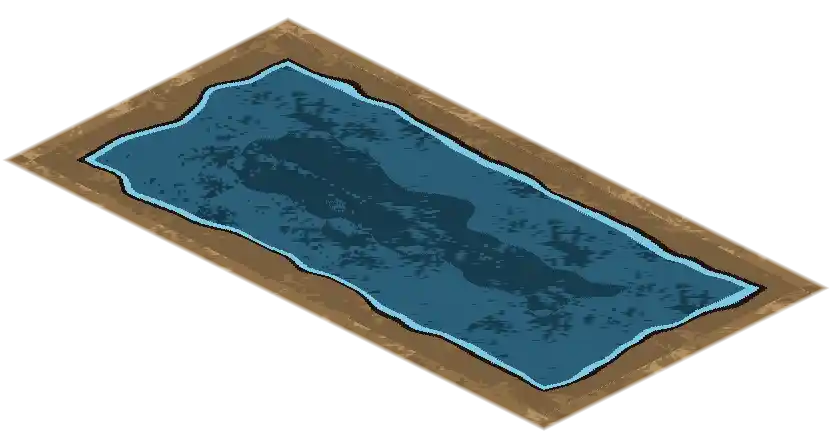
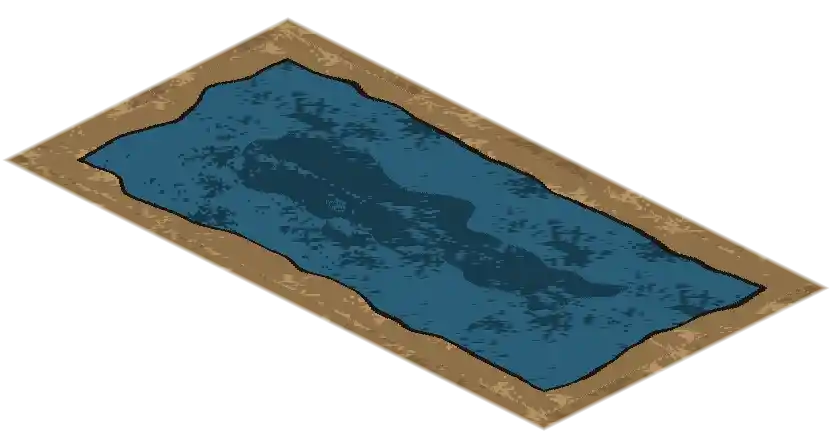
Drop the pond waterline halo and lift the wet bank to the margin's base and rim
The DL-2 W5 gate ranked two pond nits later: the #7ec8e3 band on the wet line read as a UI selection ring, and the bank under the water film, painted in the damp margin's shadow, read as a grey-olive band of mud. The shared shoreline packer now inks the wet line straight onto the bed and paints the wet bank in the margin's base with rim lifts. Both the forest pond and the Cutting's pool are repacked; CUTTING_POOL_BYTES is re-pinned.

diff --git a/scripts/art/forest-shoreline.ts b/scripts/art/forest-shoreline.ts
@@ -20,12 +20,21 @@
  * pond's margin was the odd material on a board whose road and verges had
  * already been re-keyed to the village's hand. Both now come from
  * `forest-village-material.ts`, in the DL-2 §3 water-margin key: the bank is
- * the **damp margin** `#8e7049` over the road's own packed-earth shadow, gone
- * a step darker where the water film covers it; the bed is `#2a5e77` falling
- * to a deeper second flat tone; and the wet line carries the bible's `#1b1410`
- * ink with the §3 `#7ec8e3` edge on its wet side. Two flat tones per material,
- * no gradient; the bed's depth is spent on *which* of its two tones a pixel
- * takes, never on blending them, exactly as the route plate spends its feather.
+ * the **damp margin** `#8e7049` over the road's own packed-earth shadow, and
+ * under the water film it keeps the margin's base and rim (`WET_BANK`); the
+ * bed is `#2a5e77` falling to a deeper second flat tone; and the wet line is
+ * the bible's `#1b1410` ink alone. Two flat tones per material, no gradient;
+ * the bed's depth is spent on *which* of its two tones a pixel takes, never on
+ * blending them, exactly as the route plate spends its feather.
+ *
+ * **What the DL-2 W5 gate changed.** The wet line used to carry a band of the
+ * §3 `#7ec8e3` edge on its water side. Under the film it read as a UI
+ * selection ring traced round the pond, so the ink now meets the bed
+ * directly. And the bank under the film was the margin's shadow, which the
+ * film turned into a grey-olive band like a strip of mud round the water; it
+ * now takes the margin's base and rim, so the bank reads as the same earth
+ * seen through shallow water. Both changes reach the Cutting's pool too,
+ * since it is packed here.
  */
 import { mkdirSync, writeFileSync } from 'node:fs';
 import { FOREST_POND_PATCH, FOREST_WATER_CELLS } from '../../src/content/scenes/forestRoad';
@@ -51,14 +60,13 @@ export const BITE_FLOOR = 0.3;
 export const BED_DEEP_AT = 0.75;
 export const BED_DEEP_BAND = 0.6;
 /**
- * The bible's uniform ink and the thin rim beside it, in logical cells. One
- * step of a tile across either kind of cell edge is `hypot(64, 32)` screen
- * pixels, so 2 px of ink is this much of a tile — the same arithmetic
- * `forest-route-ground.ts` uses, so the pond's line matches the road's.
+ * The bible's uniform ink, in logical cells. One step of a tile across either
+ * kind of cell edge is `hypot(64, 32)` screen pixels, so 2 px of ink is this
+ * much of a tile — the same arithmetic `forest-route-ground.ts` uses, so the
+ * pond's line matches the road's.
  */
 const TILE_DIAGONAL = Math.hypot(64, 32);
 export const INK_HALF = 1 / TILE_DIAGONAL;
-export const RIM_WIDTH = 3 / TILE_DIAGONAL;
 /** World pixels per cell, and packed pixels per cell at this density. */
 const CELL = 64;
 const DENSITY = 2;
@@ -204,16 +212,22 @@ export function pondInset(width: number, height: number, pond: Pond = FOREST_PON
 const BED = {
   shelf: parseHex(FOREST_PIECE_TONES.bed.base),
   deep: parseHex(FOREST_PIECE_TONES.bed.shadow),
-  edge: parseHex(FOREST_PIECE_TONES.bed.rim),
 };
-const WET_BANK = {
-  field: parseHex(FOREST_PIECE_TONES.margin.shadow),
-  lifted: parseHex(FOREST_PIECE_TONES.margin.base),
-};
+/**
+ * The bank under the water film: the damp margin's base as the field and its
+ * rim where the lawn's rhythm lifts a patch. The film already cools and darkens
+ * whatever it covers, so the bank needs no darker tone of its own to read as
+ * wet; the margin's shadow under it read as a grey-olive band of mud.
+ */
+export const WET_BANK = {
+  field: FOREST_PIECE_TONES.margin.base,
+  lifted: FOREST_PIECE_TONES.margin.rim,
+} as const;
+const WET_BANK_RGB = { field: parseHex(WET_BANK.field), lifted: parseHex(WET_BANK.lifted) };
 
-/** What a wet pixel shows through the film: the ink, the waterline, the bank or the bed. */
+/** What a wet pixel shows through the film: the ink, the bank or the bed. */
 interface WetPaint {
-  readonly part: 'ink' | 'edge' | 'bank' | 'bed';
+  readonly part: 'ink' | 'bank' | 'bed';
   readonly rgb: Rgb;
   /** The bed's deep tone rather than its shelf tone. */
   readonly deep: boolean;
@@ -236,26 +250,15 @@ function wetPixel(
   // always tints authored bottom rather than whatever ground the pond
   // happens to sit on (ADR 0045). The wet line itself is the boundary
   // between the bite and the bed, which is where the ink belongs: the
-  // tile edge is not a material edge, and never was.
+  // tile edge is not a material edge, and never was. The ink meets the bed
+  // directly: a pale band on its water side read as a selection ring.
   const fromLine = inside - depth;
-  const part =
-    Math.abs(fromLine) < INK_HALF
-      ? 'ink'
-      : fromLine > 0 && fromLine < INK_HALF + RIM_WIDTH
-        ? 'edge'
-        : inside < depth
-          ? 'bank'
-          : 'bed';
+  const part = Math.abs(fromLine) < INK_HALF ? 'ink' : inside < depth ? 'bank' : 'bed';
   if (part === 'ink') return { part, rgb: material.ink, deep: false };
-  if (part === 'edge') return { part, rgb: BED.edge, deep: false };
   if (part === 'bank')
-    // The bank under the film is wet, so it is the damp margin a step
-    // darker: its shadow as the field, its base where the lawn's rhythm
-    // lifts a patch. The pale rim stays on dry ground; under the film it
-    // read as the lit top of a curb rather than as a bank going under.
     return {
       part,
-      rgb: material.classOf('margin', x, y) === 'rim' ? WET_BANK.lifted : WET_BANK.field,
+      rgb: material.classOf('margin', x, y) === 'rim' ? WET_BANK_RGB.lifted : WET_BANK_RGB.field,
       deep: false,
     };
   const deep = bedIsDeep(material, x, y, inside);

diff --git a/scripts/art/forest-shoreline.test.ts b/scripts/art/forest-shoreline.test.ts
@@ -14,12 +14,14 @@ import {
   BED_DEEP_AT,
   BED_DEEP_BAND,
   BITE_FEATHER,
+  INK_HALF,
   SHORE_BITE,
   SHORE_LIMIT,
   biteDepth,
   packShoreline,
   pondInset,
   SHORE_OUTPUT,
+  WET_BANK,
   shorePosition,
   shoreDistance,
 } from './forest-shoreline';
@@ -37,7 +39,7 @@ it('ships the pond plate the packer builds', async () => {
   );
 });
 
-it('paints only the damp margin, the bed, their rims and the ink', () => {
+it('paints only the damp margin, the bed and the ink', () => {
   const allowed = new Set<string>([FOREST_INK]);
   for (const key of ['margin', 'bed'] as const)
     for (const hex of Object.values(FOREST_PIECE_TONES[key])) allowed.add(hex);
@@ -53,9 +55,11 @@ it('paints only the damp margin, the bed, their rims and the ink', () => {
     FOREST_PIECE_TONES.margin.base,
     FOREST_PIECE_TONES.bed.base,
     FOREST_PIECE_TONES.bed.shadow,
-    FOREST_PIECE_TONES.bed.rim,
   ])
     expect(seen, `${hex} is painted`).toContain(hex);
+  // The DL-2 W5 gate: a `#7ec8e3` band on the wet line's water side read as a
+  // UI selection ring round the pond, so the ink meets the bed directly.
+  expect(seen, 'no waterline halo').not.toContain(FOREST_PIECE_TONES.bed.rim);
 });
 
 it('keeps the bank, its wandering bite and the opaque bed of ADR 0045', () => {
@@ -150,20 +154,29 @@ it('keeps the bank, its wandering bite and the opaque bed of ADR 0045', () => {
   const mean = (b: { n: number; sum: number }): number => b.sum / b.n;
   expect(mean(band.shelf)).toBeLessThan(mean(band.bank) * 0.85);
   expect(mean(band.deep)).toBeLessThan(mean(band.shelf) * 0.8);
-  // The wet line: ink, with the §3 edge on its wet side and the wet bank on
-  // its dry one, so the bite's inner sliver darkens into the line.
+  // The wet line: ink, with the bed on its wet side and the wet bank on its
+  // dry one, so the bite's inner sliver darkens into the line.
   expect(mean(band.featherOuter)).toBeGreaterThan(mean(band.featherInner));
   expect(BED_DEEP_AT).toBeGreaterThan(BED_DEEP_BAND / 2);
-  // Under the water film the bank is the damp margin gone a step darker: its
-  // pale rim, which read as the lit top of a curb there, is never painted.
-  let paleUnderFilm = 0;
+  // Under the water film the bank keeps the damp margin's base and rim. Its
+  // shadow there, darkened again by the film, read as a grey-olive band of mud
+  // round the water (the DL-2 W5 gate), so no wet pixel takes it; and the
+  // bank's lifted rim patches really are painted, so the choice is exercised.
+  const wetBank = new Map<string, number>();
+  let shadowUnderFilm = 0;
   for (let py = 0; py < image.height; py++)
     for (let px = 0; px < image.width; px++) {
-      if ((inset[py * image.width + px] ?? 0) <= 0) continue;
+      const inside = inset[py * image.width + px] ?? 0;
+      if (inside <= 0) continue;
       const hex = toHex(pixelAt(image, px, py).slice(0, 3));
-      if (hex === FOREST_PIECE_TONES.margin.rim) paleUnderFilm++;
+      if (hex === FOREST_PIECE_TONES.margin.shadow) shadowUnderFilm++;
+      const { x, y } = shorePosition(px, py);
+      // Clear of the ink on both sides, so only the bank's own paint counts.
+      if (inside < biteDepth(x, y) - 2 * INK_HALF) wetBank.set(hex, (wetBank.get(hex) ?? 0) + 1);
     }
-  expect(paleUnderFilm).toBe(0);
+  expect(shadowUnderFilm).toBe(0);
+  expect([...wetBank.keys()].sort()).toEqual([WET_BANK.field, WET_BANK.lifted].sort());
+  expect(wetBank.get(WET_BANK.field) ?? 0).toBeGreaterThan(wetBank.get(WET_BANK.lifted) ?? 0);
   // Every real water centre carries bed, and muted bed at that: the middle of
   // a tile is never dry bank, and never the brightest thing in the pond.
   for (const { x, y } of FOREST_WATER_CELLS) {

diff --git a/src/content/scenes/quarryRouteGround.ts b/src/content/scenes/quarryRouteGround.ts
@@ -61,4 +61,4 @@ export const CUTTING_GROUND_REGIONS = [
   },
 ] as const;
 
-export const CUTTING_POOL_BYTES = 13184;
+export const CUTTING_POOL_BYTES = 10490;

diff --git a/docs/art/forest-pond-shoreline.md b/docs/art/forest-pond-shoreline.md
@@ -105,3 +105,25 @@ of the 300 KB budget, `npm run check:assets` is OK, and the route harness passes
 2/2 in 32 s with captures under `.shots/water/bed3/`; `before-after-webgl.png`
 there stacks the shipped v0.2.5 pond against this bed. Still open: reeds and bank
 planting, the village canal's bed and bank, and the quarry floor's flat stain.
+
+## Waterline and wet bank, after the DL-2 W5 gate (23 September 2026)
+
+The W5 reviewer ranked two pond nits "later", and both are fixed in the packer
+(`scripts/art/forest-shoreline.ts`), so they reach the forest pond and the
+Cutting's pool (`cutting-scene/pool-bank.webp`), which the same packer builds:
+
+- **Waterline halo.** The wet line carried a 3 px band of the §3 edge
+  `#7ec8e3` on its water side. Under the film it read as a UI selection ring
+  traced round the pond. The band is gone: the `#1b1410` ink meets the bed
+  directly, and the test holds that no pixel of the plate is `#7ec8e3`.
+- **Wet bank.** Under the film the bank was the damp margin's shadow `#7a5f3e`
+  with base `#8e7049` lifts, which the film turned into a grey-olive band like
+  a strip of mud. It now takes the margin's base `#8e7049` with rim `#b39064`
+  lifts (`WET_BANK`), so it reads as the same earth seen through shallow water.
+  The test holds that no wet pixel is the margin's shadow.
+
+Geometry, the bed, the dry margin and every alpha value are unchanged, so the
+water cells and their bed still read as water under the film, and the forest
+apron (which reads this plate only as an overpaint guard) is byte-identical.
+`pond-bank.webp` went from 21,434 to 18,050 B and `pool-bank.webp` from 13,184
+to 10,490 B. Both packers were run twice and produced byte-identical files.

diff --git a/docs/art/cutting-driller-ground-registration.md b/docs/art/cutting-driller-ground-registration.md
@@ -218,8 +218,8 @@ it as a flat teal rectangle — a third water style on the route. It now has its
 own plate, `cutting-scene/pool-bank.webp`, packed by the forest pond's own
 packer (`packShoreline`, now parametrised by the pond it banks) in the same §3
 keys: bed `#2a5e77` pooling to `#173b4c`, the damp margin `#8e7049` round it
-and gone wet where the bank bites into the water, the inked wet line and its
-`#7ec8e3` edge. The quarry reads those tones from the forest's table rather
+and gone wet where the bank bites into the water, and the inked wet line. The
+quarry reads those tones from the forest's table rather
 than restating them (`QUARRY_GROUND_TONES.margin`/`.bed`). The live water film
 and its runtime bank band are unchanged.
 
@@ -250,6 +250,13 @@ one distinct image to each scene. Both packers were run twice and produced
 byte-identical files. `scripts/art/quarry-route-ground.test.ts` pins every
 page and the pool plate to the packer and to its recorded size on disk
 (`CUTTING_GROUND_REGIONS`, `DRILLER_GROUND_REGIONS`, `CUTTING_POOL_BYTES`).
+
+**Pond edge, after the W5 gate.** The shared packer's waterline lost its
+`#7ec8e3` band (it read as a UI selection ring) and its wet bank moved from
+the damp margin's shadow/base to its base/rim (the shadow under the film read
+as a grey-olive band of mud); see `docs/art/forest-pond-shoreline.md`. The
+pool plate went from 13,184 to 10,490 B (`CUTTING_POOL_BYTES`); every page
+above is byte-identical.
 
 **Not fixed here.** A faint band of the neighbouring terrain's colour still
 runs just inside each cover cell's diamond. It is not a gap in the art: the
